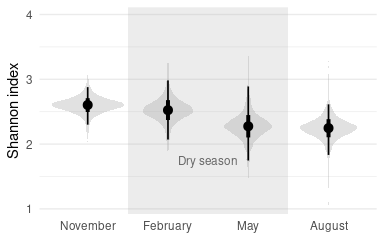
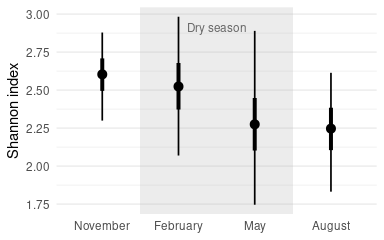
Report dry-wet relationship findings

diff --git a/notebooks/report.md b/notebooks/report.md
@@ -1,6 +1,12 @@
 Preliminary analysis
 ================
 
+## Summary
+
+  - Diversity changes over the year. Diversity is the highest at the end
+    of the wet season and the lowest at the beginning of the wet season.
+    Surprisingly,
+
 ## Question 1
 
 Does aquatic food diversity changes throughout the year? We hypothesise
@@ -43,11 +49,11 @@ season refuges in the landscape to mix.
 
 ![](report_files/figure-gfm/diversity-over-year-1.png)<!-- -->
 
-*Figure 1: Density distribution of the mean alpha-diversity over the
-year. February and March are predominantly in the dry season. Dots
-indicate the median of the distribution and lines indicate the 66 and
-95% credible intervals. Shannon diversity values have been standardised
-for eight replicates for each sampling occasion.*
+*Figure 1: Distribution of the mean alpha-diversity over the year.
+February and March are predominantly in the dry season. Dots indicate
+the median of the distribution and lines indicate the 66 and 95%
+credible intervals. Shannon diversity values have been standardised for
+eight replicates for each sampling occasion.*
 
   - When looking at the random effects, we found that the variability in
     alpha diversity across refuges was very likely (with a 95%
@@ -68,16 +74,44 @@ diversity in the wet season?
 
 ### Methods
 
-  - Used a Bayesian regression to test whether dive diversity across the
-    year. We included year, and refuge nested inside refuge type as
-    random effects with varying intercept. To account for uneven
-    sampling in smaller sites we included the (log) number of replicates
-    in each sampling occasion an offset.
+  - Used a Bayesian regression to test whether the Shannon diversity
+    index at the end of the dry season (May) is related to the diversity
+    at the beginning of the wet season (August). As in the previous
+    model, we included year and the refuge identity nested inside refuge
+    type as random effects. For year we calculated a random intercept
+    and for refuge and refuge-category we calculated random slopes and
+    intercept. To account for uneven sampling in smaller sites we
+    included the (log) number of replicates in each sampling occasion an
+    offset.
+  - Used data from 2013, 2014, and 2015 for which we had samples both
+    during the dry and the wet season and removed occasions in which the
+    refuge was completely dry and therefore the Shannon diversity index
+    in May was zero.
+
+### Results
+
+  - The R<sup>2</sup> of the model was between 0.42 and 0.64 (95%
+    probability) which indicates that the model was able to account for
+    a substantial proportion of the variation in alpha diversity.
+  - We found that there is almost certain that there is a positive
+    association between the Shannon diversity index in May, at the end
+    of the dry season, and the index in August, at the beginning of the
+    wet season (*p* = 0.009).
+  - This relationship between May’s and August’s diversity was
+    maintained across years, refuge types, and even individual refuges
+    (Supp. Figure 2).
+
+![](report_files/figure-gfm/drywet-relationship-1.png)<!-- -->
+
+*Figure 2: Predicted mean relationship between Shannon diversity index
+in May and August. Shaded areas indicate the 66 and 95% credible
+intervals. Shannon diversity values have been standardised for eighr
+replicates in each sampling occasion.*
 
 ## Question 3
 
 Which environmental factors drive the changes in community composition
-and potential decrease in species abbundance/richness between start and
+and potential decrease in species abundance/richness between start and
 end of dry season?
 
 ## Supplementary figures
@@ -109,3 +143,31 @@ ref_data %>%
 ```
 
 ![](report_files/figure-gfm/adiversity-random-figure-1.png)<!-- -->
+
+``` r
+ref_data <- model_dry_wet %>%
+  posterior_samples() %>%
+  as.data.frame() %>%
+  sample_frac(0.1) %>%
+  select(starts_with("r_")) %>%
+  pivot_longer(everything()) %>%
+  mutate(random_effect = stringr::str_extract(name, ".+(?=\\[)"),
+         name = str_extract(name, "(?<=\\[).+(?=\\])"),
+         name = if_else(str_detect(name, "_"),
+                        str_extract(name, "(?<=_).+"),
+                        name),
+         name = snakecase::to_sentence_case(name)) %>%
+  mutate(name = fct_reorder(name, value, .desc = T), 
+         random_effect = fct_reorder(random_effect, value, 
+                                     function(x){median(abs(x))}, 
+                                     .desc = T))
+
+ref_data %>%
+  ggplot(aes(y = name, x = value)) +
+  geom_vline(xintercept = 0, linetype = 2) +
+  stat_pointinterval() +
+  facet_grid(random_effect ~ ., scales = "free", space = "free") +
+  theme_minimal()
+```
+
+![](report_files/figure-gfm/unnamed-chunk-1-1.png)<!-- -->
